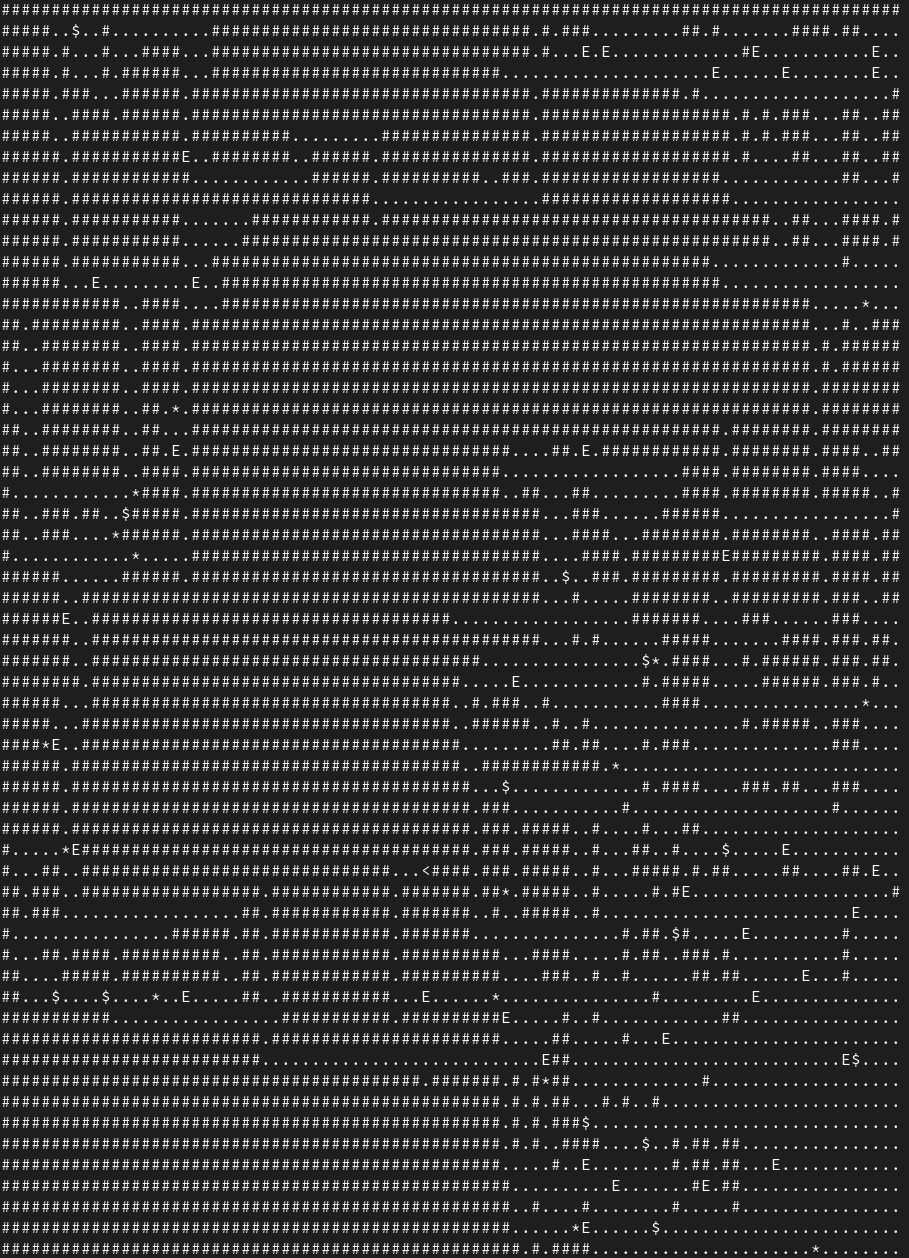
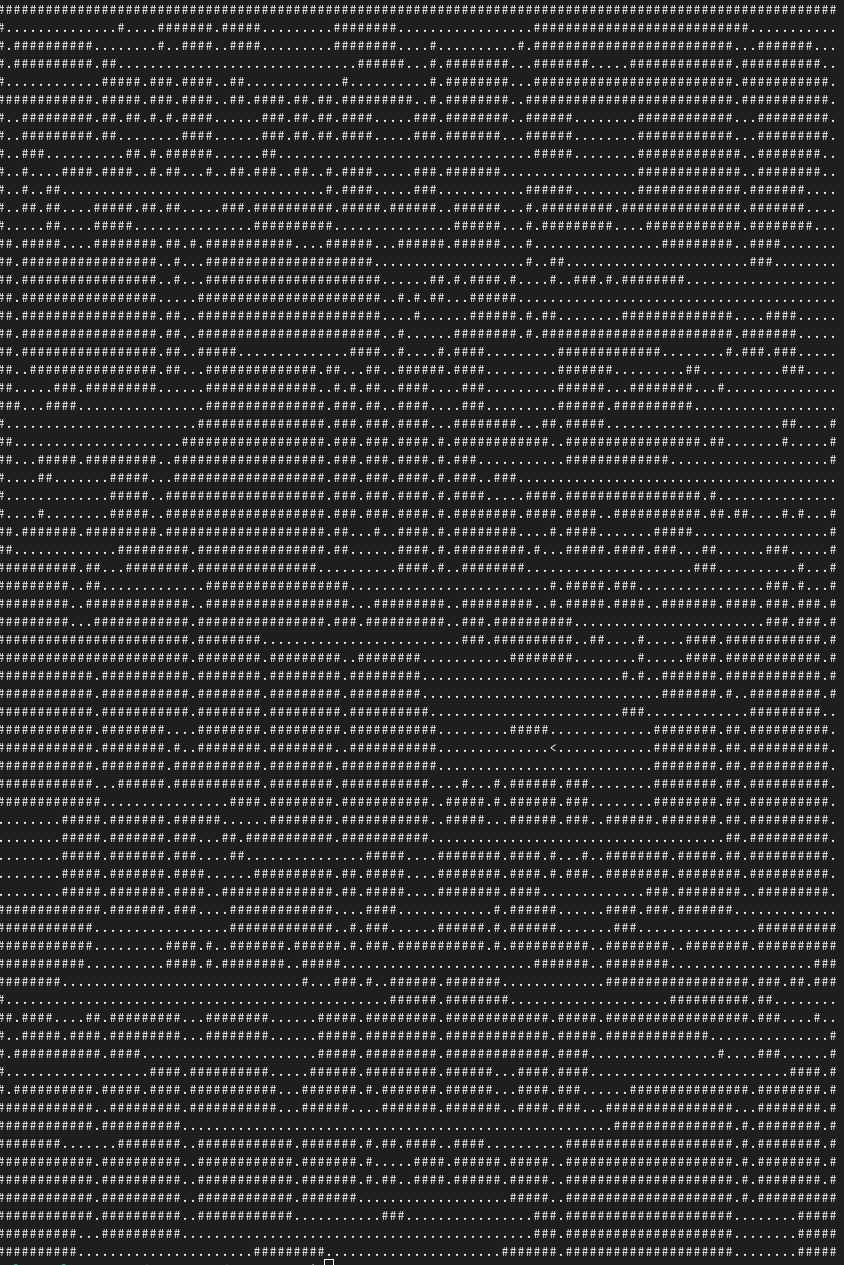
General update

diff --git a/main.c b/main.c
@@ -6,7 +6,7 @@
 int min(int a, int b) { return a > b ? b : a; }
 
 signed main(void) {
-	int scale; puts("Enter the scale:"); scanf("%ld", &scale); 
+	 int scale = 100; puts("Enter the scale:"); scanf("%ld", &scale); 
 	if (scale < 10) { 
 		puts("Scale must be more than 10!"); 
 		return 1; 
@@ -15,7 +15,7 @@ signed main(void) {
 	int width = 3 * scale, height = 2 * scale; srand((unsigned)time(NULL)); 
 	int* map = malloc((width * height) * sizeof(int)); if (map == NULL) return 1;
 	for (int i = 0; i < height * width; i++) map[i] = '#';
-	int px = rand() % width, py = rand() % height, floor_tiles = width * height/3, tunnel_length = 0, tunnel_dir = 0; 
+	int px = rand() % width, py = rand() % height, floor_tiles = (width * height)/1.5f, tunnel_length = 0, tunnel_dir = 0; 
 	map[py * width + px] = '<';
 
 	while (floor_tiles--) {

diff --git a/README.md b/README.md
@@ -23,12 +23,7 @@ Scale = 25 or 100x75 size:
 ![screenshot](https://github.com/Ztry8/DungeonGen/blob/main/screenshots/25s.png)
 
 ### Time
-The time to generate a map with a scale of 200 (600x400 tiles) is: 
-```
-real	0m0.767s
-user	0m0.022s
-sys	0m0.006s
-```
+The time to generate a map with a scale of 100 (300x200 tiles) is 0.026 seconds.
 If the program was built by the command in the `Building` section.
 
 ### TODO
@@ -36,5 +31,5 @@ If the program was built by the command in the `Building` section.
 - [x] Added the input for scale. 
 - [x] Replaced stack with the heap.
 - [x] Added corridors and rooms.
-- [x] Added ```<; E; $; *;``` tiles.
-- [x] Optimizate for large areas.
+- [ ] Added ```<; E; $; *;``` tiles.
+- [ ] Optimize for large areas.
